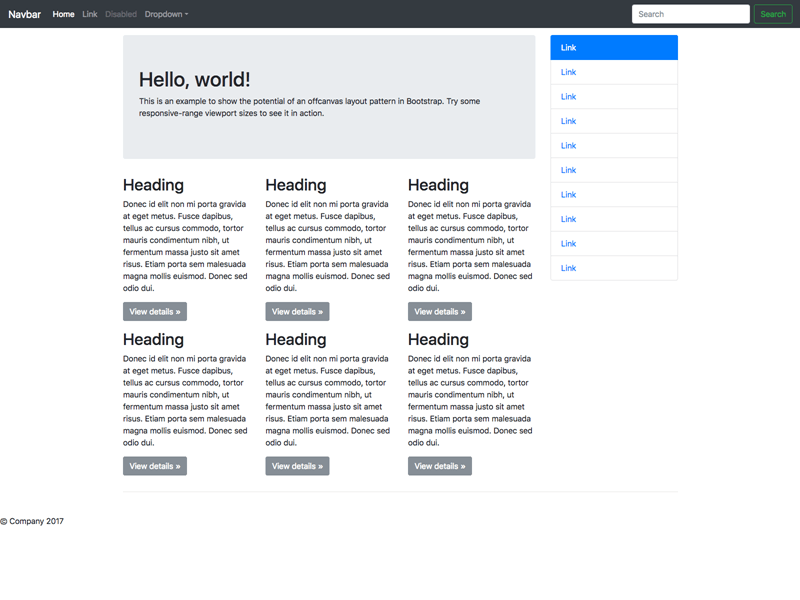
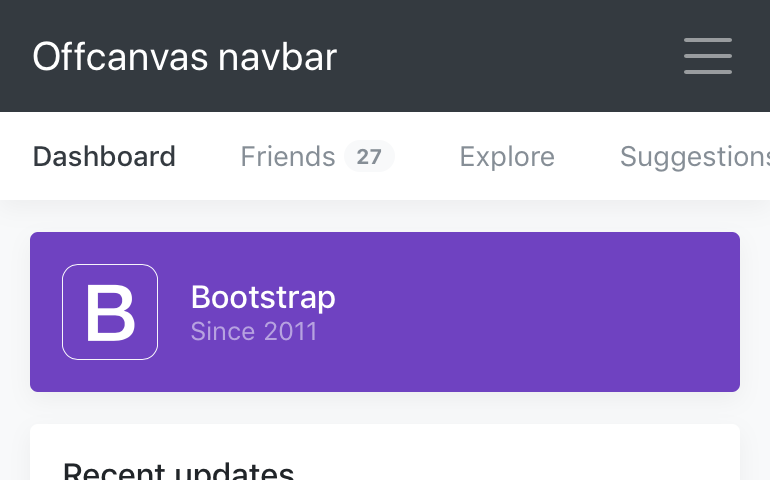
new offcanvas mostly implemented

diff --git a/docs/4.0/examples/offcanvas/index.html b/docs/4.0/examples/offcanvas/index.html
@@ -16,27 +16,30 @@
     <link href="offcanvas.css" rel="stylesheet">
   </head>
 
-  <body>
+  <body class="bg-light">
 
     <nav class="navbar navbar-expand-md fixed-top navbar-dark bg-dark">
       <a class="navbar-brand" href="#">Offcanvas navbar</a>
-      <button class="navbar-toggler" type="button" data-toggle="offcanvas">
+      <button class="navbar-toggler p-0 border-0" type="button" data-toggle="offcanvas">
         <span class="navbar-toggler-icon"></span>
       </button>
 
       <div class="navbar-collapse offcanvas-collapse" id="navbarsExampleDefault">
         <ul class="navbar-nav mr-auto">
           <li class="nav-item active">
-            <a class="nav-link" href="#">Home <span class="sr-only">(current)</span></a>
+            <a class="nav-link" href="#">Dashboard <span class="sr-only">(current)</span></a>
           </li>
           <li class="nav-item">
-            <a class="nav-link" href="#">Link</a>
+            <a class="nav-link" href="#">Notifications</a>
           </li>
           <li class="nav-item">
-            <a class="nav-link disabled" href="#">Disabled</a>
+            <a class="nav-link" href="#">Profile</a>
+          </li>
+          <li class="nav-item">
+            <a class="nav-link" href="#">Switch account</a>
           </li>
           <li class="nav-item dropdown">
-            <a class="nav-link dropdown-toggle" href="http://example.com" id="dropdown01" data-toggle="dropdown" aria-haspopup="true" aria-expanded="false">Dropdown</a>
+            <a class="nav-link dropdown-toggle" href="http://example.com" id="dropdown01" data-toggle="dropdown" aria-haspopup="true" aria-expanded="false">Settings</a>
             <div class="dropdown-menu" aria-labelledby="dropdown01">
               <a class="dropdown-item" href="#">Action</a>
               <a class="dropdown-item" href="#">Another action</a>
@@ -51,8 +54,96 @@
       </div>
     </nav>
 
+    <div class="nav-scroller bg-white box-shadow">
+      <nav class="nav nav-underline">
+        <a class="nav-link active" href="#">Dashboard</a>
+        <a class="nav-link" href="#">
+          Friends
+          <span class="badge badge-pill bg-light align-text-bottom">27</span>
+        </a>
+        <a class="nav-link" href="#">Explore</a>
+        <a class="nav-link" href="#">Suggestions</a>
+        <a class="nav-link" href="#">Link</a>
+        <a class="nav-link" href="#">Link</a>
+        <a class="nav-link" href="#">Link</a>
+        <a class="nav-link" href="#">Link</a>
+        <a class="nav-link" href="#">Link</a>
+      </nav>
+    </div>
+
     <main role="main" class="container">
-      hello world
+      <div class="d-flex align-items-center p-3 my-3 text-white-50 bg-purple rounded box-shadow">
+        <img class="mr-3" src="https://getbootstrap.com/assets/brand/bootstrap-outline.svg" alt="" width="48" height="48">
+        <div class="lh-100">
+          <h6 class="mb-0 text-white lh-100">Bootstrap</h6>
+          <small>Since 2011</small>
+        </div>
+      </div>
+
+      <div class="my-3 p-3 bg-white rounded box-shadow">
+        <h6 class="border-bottom border-gray pb-2 mb-0">Recent updates</h6>
+        <div class="media text-muted pt-3">
+          <img width="32" height="32" class="mr-2 bg-primary rounded" src="">
+          <p class="media-body pb-3 mb-0 small lh-125 border-bottom border-gray">
+            <strong class="d-block text-gray-dark">@username</strong>
+            Donec id elit non mi porta gravida at eget metus. Fusce dapibus, tellus ac cursus commodo, tortor mauris condimentum nibh, ut fermentum massa justo sit amet risus.
+          </p>
+        </div>
+        <div class="media text-muted pt-3">
+          <img width="32" height="32" class="mr-2 bg-success rounded" src="">
+          <p class="media-body pb-3 mb-0 small lh-125 border-bottom border-gray">
+            <strong class="d-block text-gray-dark">@username</strong>
+            Donec id elit non mi porta gravida at eget metus. Fusce dapibus, tellus ac cursus commodo, tortor mauris condimentum nibh, ut fermentum massa justo sit amet risus.
+          </p>
+        </div>
+        <div class="media text-muted pt-3">
+          <img width="32" height="32" class="mr-2 bg-secondary rounded" src="">
+          <p class="media-body pb-3 mb-0 small lh-125 border-bottom border-gray">
+            <strong class="d-block text-gray-dark">@username</strong>
+            Donec id elit non mi porta gravida at eget metus. Fusce dapibus, tellus ac cursus commodo, tortor mauris condimentum nibh, ut fermentum massa justo sit amet risus.
+          </p>
+        </div>
+        <small class="d-block text-right mt-3">
+          <a href="#">All updates</a>
+        </small>
+      </div>
+
+      <div class="my-3 p-3 bg-white rounded box-shadow">
+        <h6 class="border-bottom border-gray pb-2 mb-0">Suggestions</h6>
+        <div class="media text-muted pt-3">
+          <img width="32" height="32" class="mr-2 bg-primary rounded" src="">
+          <div class="media-body pb-3 mb-0 small lh-125 border-bottom border-gray">
+            <div class="d-flex justify-content-between align-items-center w-100">
+              <strong class="text-gray-dark">Full Name</strong>
+              <a href="#">Follow</a>
+            </div>
+            <span class="d-block">@username</span>
+          </div>
+        </div>
+        <div class="media text-muted pt-3">
+          <img width="32" height="32" class="mr-2 bg-primary rounded" src="">
+          <div class="media-body pb-3 mb-0 small lh-125 border-bottom border-gray">
+            <div class="d-flex justify-content-between align-items-center w-100">
+              <strong class="text-gray-dark">Full Name</strong>
+              <a href="#">Follow</a>
+            </div>
+            <span class="d-block">@username</span>
+          </div>
+        </div>
+        <div class="media text-muted pt-3">
+          <img width="32" height="32" class="mr-2 bg-primary rounded" src="">
+          <div class="media-body pb-3 mb-0 small lh-125 border-bottom border-gray">
+            <div class="d-flex justify-content-between align-items-center w-100">
+              <strong class="text-gray-dark">Full Name</strong>
+              <a href="#">Follow</a>
+            </div>
+            <span class="d-block">@username</span>
+          </div>
+        </div>
+        <small class="d-block text-right mt-3">
+          <a href="#">All suggestions</a>
+        </small>
+      </div>
     </main>
 
     <!-- Bootstrap core JavaScript

diff --git a/docs/4.0/examples/offcanvas/offcanvas.css b/docs/4.0/examples/offcanvas/offcanvas.css
@@ -3,6 +3,10 @@ body {
   overflow-x: hidden; /* Prevent scroll on narrow devices */
 }
 
+body {
+  padding-top: 56px;
+}
+
 @media (max-width: 767.99px) {
   .offcanvas-collapse {
     position: fixed;
@@ -24,3 +28,49 @@ body {
     transform: translateX(-1rem); /* Account for horizontal padding on navbar */
   }
 }
+
+.nav-scroller {
+  position: relative;
+  z-index: 2;
+  height: 2.75rem;
+  overflow-y: hidden;
+}
+
+.nav-scroller .nav {
+  display: flex;
+  flex-wrap: nowrap;
+  padding-bottom: 1rem;
+  margin-top: -1px;
+  overflow-x: auto;
+  color: rgba(255, 255, 255, 0.75);
+  text-align: center;
+  white-space: nowrap
+  -webkit-overflow-scrolling: touch;
+}
+
+.nav-underline .nav-link {
+  padding-top: .75rem;
+  padding-bottom: .75rem;
+  font-size: .875rem;
+  color: var(--secondary);
+  white-space: nowrap;
+}
+
+.nav-underline .nav-link:hover {
+  color: var(--blue);
+}
+
+.nav-underline .active {
+  font-weight: 500;
+  color: var(--gray-dark);
+}
+
+.bg-purple { background-color: var(--purple); }
+
+.text-white-50 { color: rgba(255, 255, 255, .5); }
+
+.box-shadow { box-shadow: 0 .25rem .75rem rgba(0, 0, 0, .05); }
+
+.lh-100 { line-height: 1; }
+.lh-125 { line-height: 1.25; }
+.lh-150 { line-height: 1.5; }
